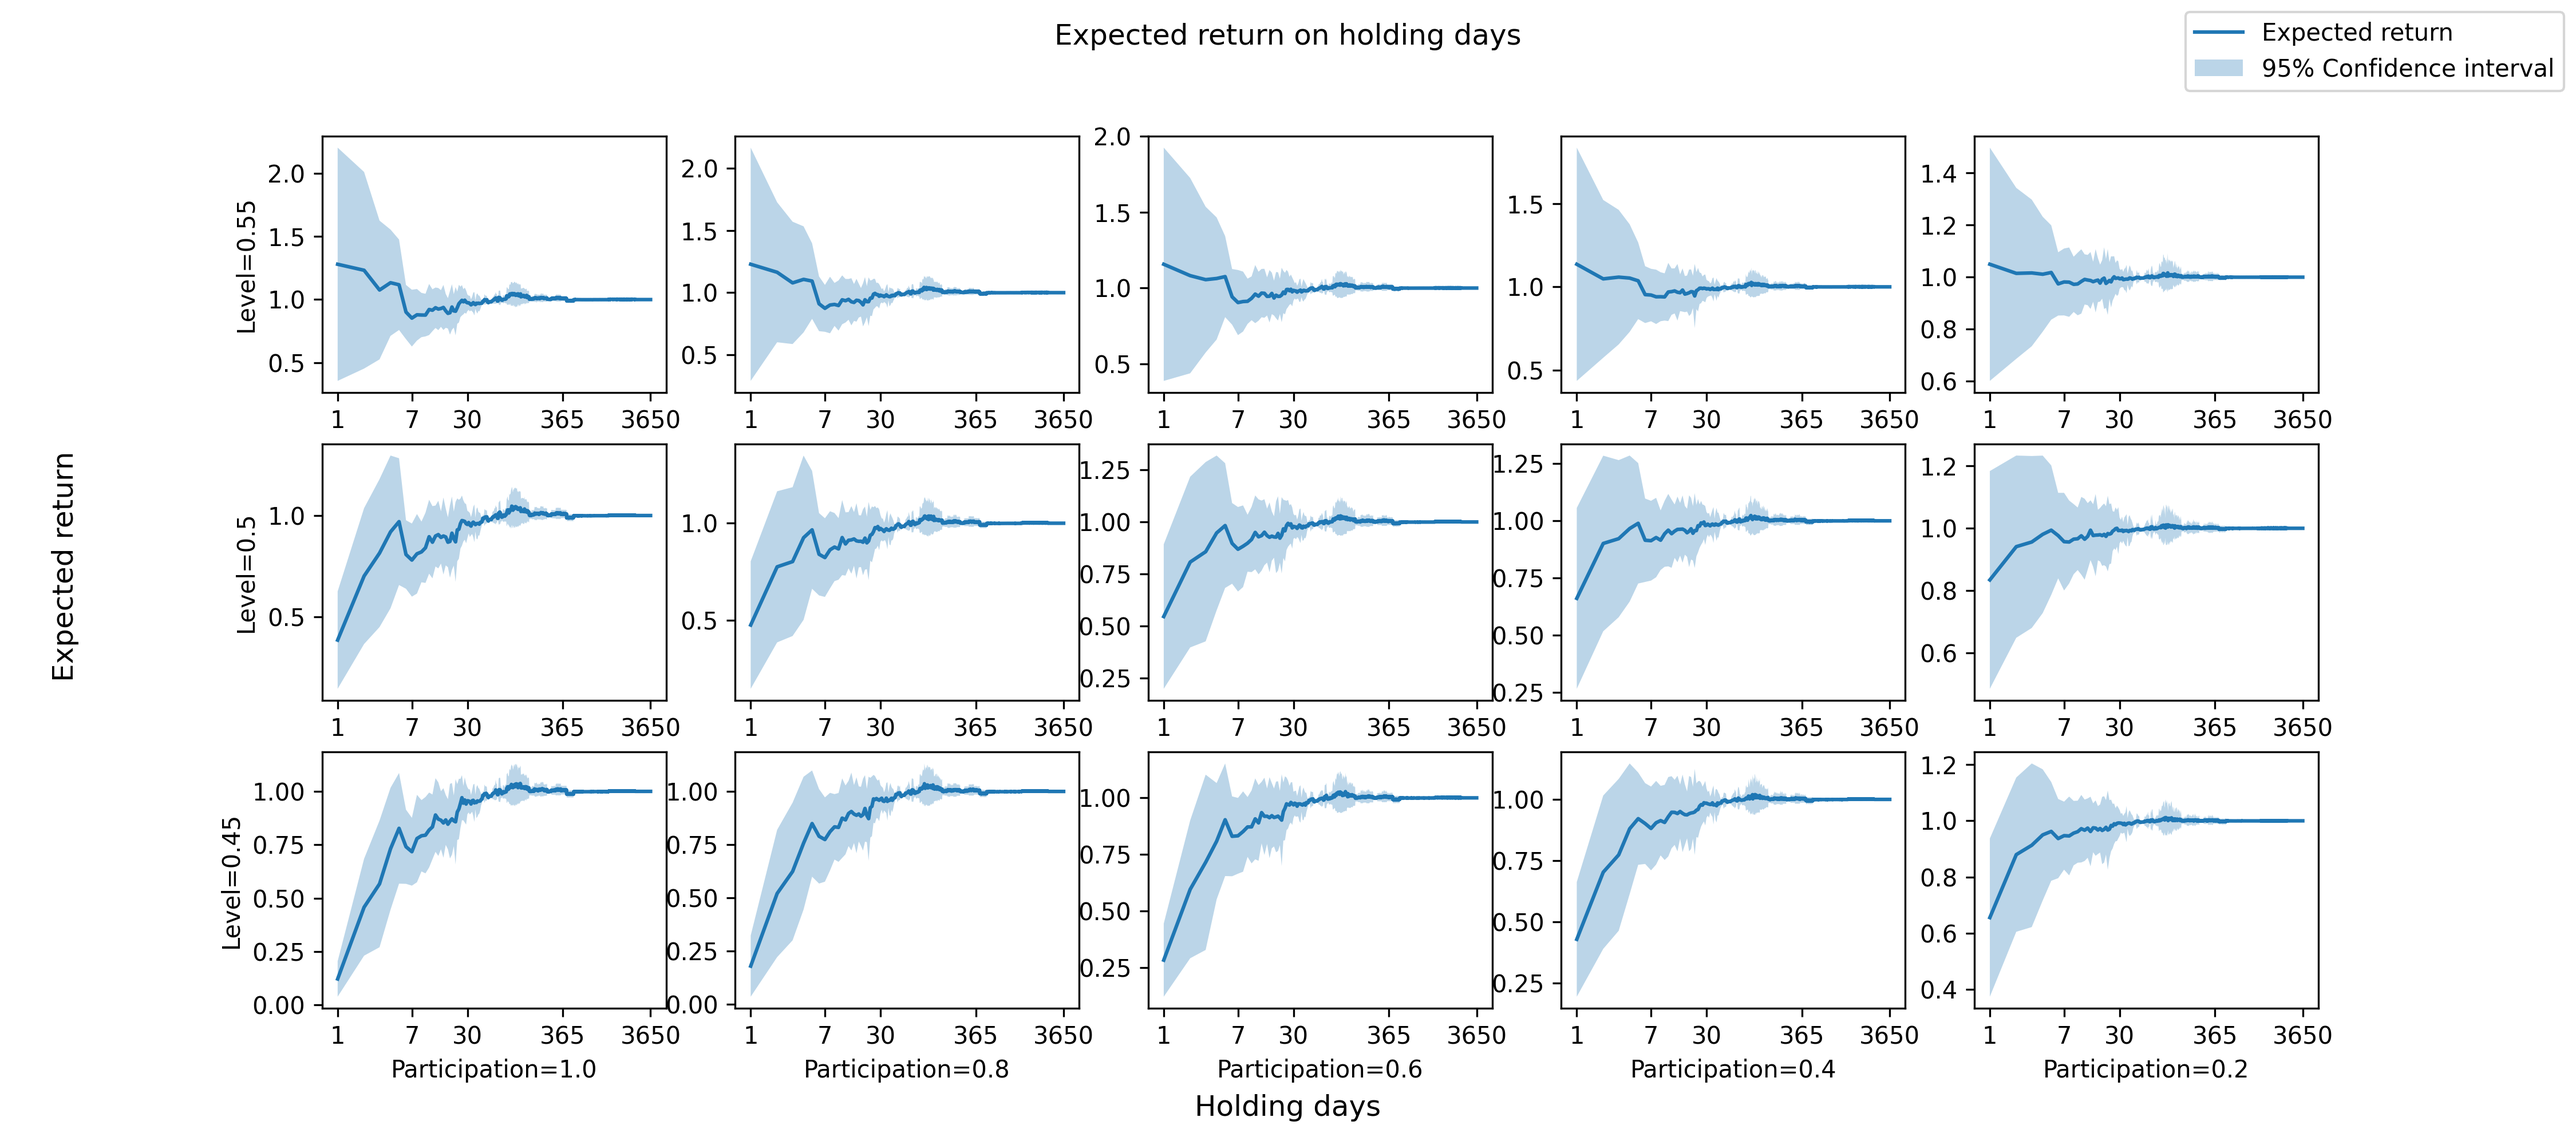
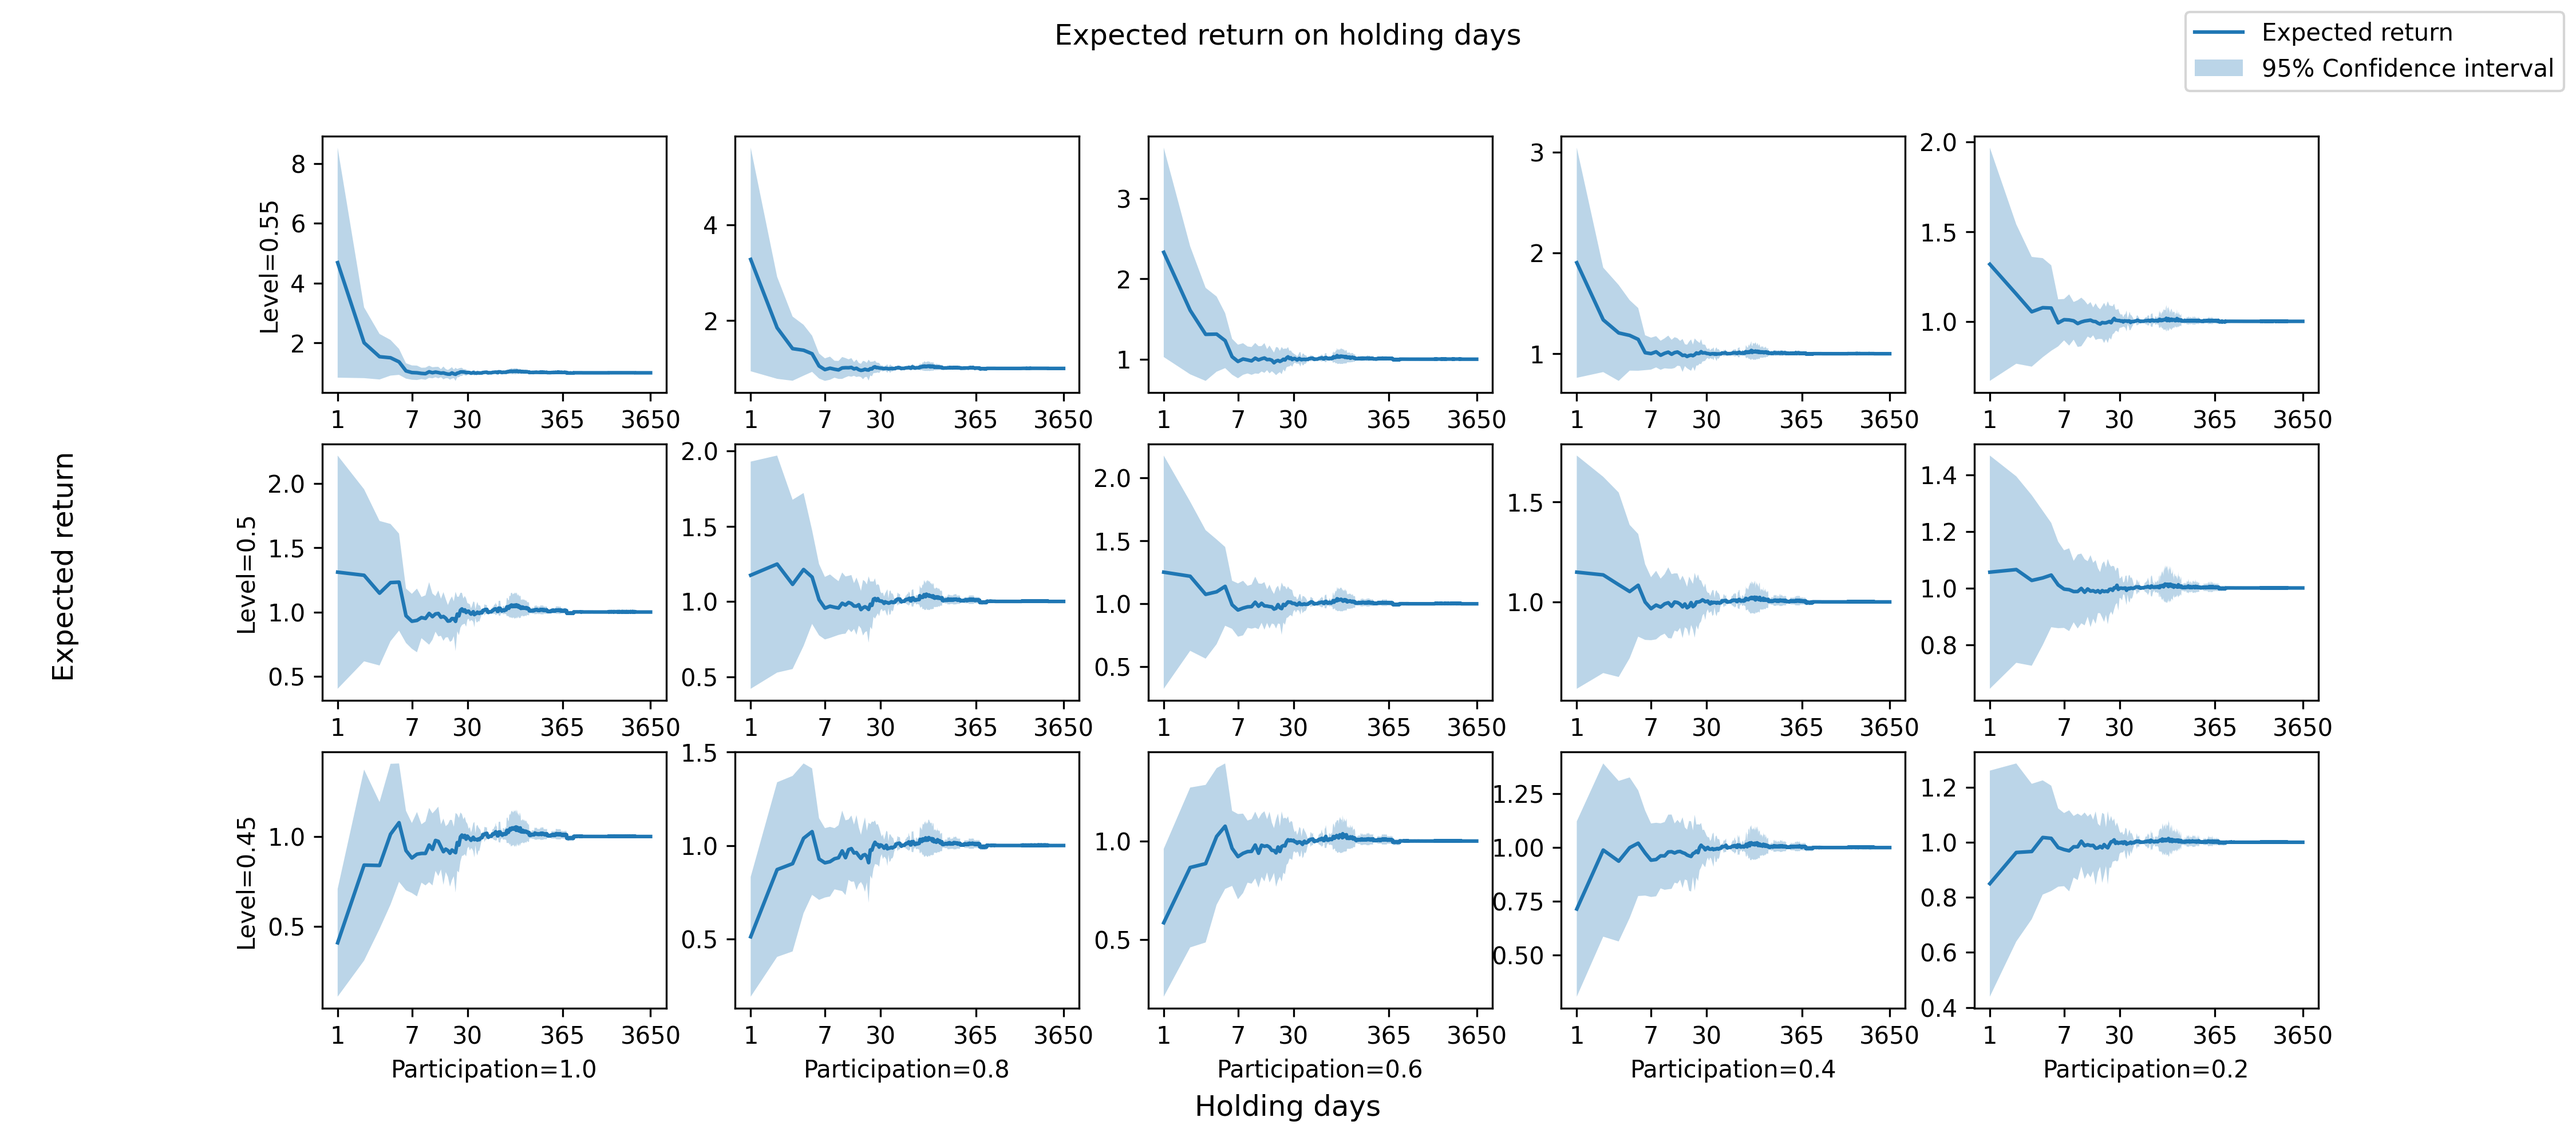
使用FP实现了数据处理的代码，实现了rust读取文件

diff --git a/src/rust/src/data_generator.rs b/src/rust/src/data_generator.rs
@@ -5,46 +5,41 @@ pub struct DataGenerator {
     return_vectors: Vec<Vec<f64>>,
     num_investors: usize,
     trading_cost: f64,
-    pub rng: rand::rngs::ThreadRng,
 }
 
 impl DataGenerator {
-    pub fn from_data(return_vectors: Vec<Vec<f64>>, num_investors: usize, trading_cost: f64) -> Self {
-        Self { return_vectors, num_investors, trading_cost, rng: rand::thread_rng() }
-    }
-    pub fn get_plot_function(&self) -> impl FnMut(f64, i32, f64, bool) -> Vec<(f64, f64)> {
-        // 返回一个函数对象
-        let mut myself: DataGenerator = self.to_owned();
-        move |level: f64, hold: i32, participation: f64, include_individuals: bool| -> Vec<(f64, f64)> {
-            let return_vectors =  if include_individuals {
-                myself.return_vectors.clone()
-            } else {myself.return_vectors.clone()[0..1].to_vec()};
-            let mut result: Vec<(f64, f64)> = vec![(0.0, 0.0); return_vectors.len()];
-            let num_holds = return_vectors[0].len().div_ceil(hold as usize) as usize;
-            let mut adjusted_returns: Vec<Vec<f64>> = vec![vec![0.0; num_holds]; return_vectors.len()];
-                        for (i, vector) in return_vectors.iter().enumerate() {
-                            for j in 0..num_holds {
-                                adjusted_returns[i][j] = (*vector)[j*hold as usize .. vector.len().min((j+1) * hold as usize)].iter().product();
-                            }
-                        }
-            for (j, returns) in adjusted_returns.iter().enumerate() {
-                let mut get_single_return = || {
-                    let mut cumulative_return = 1.0;
-                    for &ret in returns.iter() {
+    pub fn from_data(return_vectors: Vec<Vec<f64>>, num_investors: usize, trading_cost: f64,)
+        -> Self { Self { return_vectors, num_investors, trading_cost, } }
+    pub fn get_plot_function(self) -> impl FnMut(f64, usize, f64, bool) -> Vec<(f64, f64)> {
+        // 返回一个闭包
+        let mut rng = rand::thread_rng();
+        move |level: f64, hold: usize, participation: f64, include_individuals: bool|
+            -> Vec<(f64, f64)> {
+            let return_vectors = if include_individuals {
+                self.return_vectors.clone()
+            } else { self.return_vectors[0..1].to_vec() };
+            let num_holds = return_vectors[0].len().div_ceil(hold);
+            let adjusted_returns: Vec<Vec<f64>> = return_vectors.iter().map(
+                |vector| { (0..num_holds).map(|j| {
+                    (*vector)[j * hold..vector.len().min((j + 1) * hold)].iter().product()
+                }).collect()
+            }).collect();
+            let result = adjusted_returns.iter().map(|returns| {
+                let investors_return: Vec<f64> = (0..self.num_investors).map(|_| {
+                    returns.iter().fold(1.0, |acc, &ret| {
                         let growing = ret > 1.;
-                        let win = myself.rng.gen::<f64>() < level;
-                        let participating = myself.rng.gen::<f64>() < participation;
-                        cumulative_return *= if growing == win && participating {ret * (1. - myself.trading_cost)} else {1.};
-                    }
-                    cumulative_return
-                };
-                let single_returns = (0..myself.num_investors).map(|_| get_single_return()).collect::<Vec<f64>>();
-                let mean_return = single_returns.iter().sum::<f64>() / myself.num_investors as f64;
-                let sd_return = (
-                    single_returns.iter().map(|&x| (x - mean_return).powi(2)).sum::<f64>() / myself.num_investors as f64
-                ).sqrt();
-                result[j] = (mean_return, sd_return);
-            }
+                        let win = rng.gen::<f64>() < level;
+                        let participating = rng.gen::<f64>() < participation;
+                        if growing == win && participating {
+                            acc * ret * (1. - self.trading_cost)
+                        } else { acc } }) }).collect();
+                let mean_return = investors_return.iter()
+                    .sum::<f64>() / self.num_investors as f64;
+                let sd_return = (investors_return.iter()
+                    .map(|&x| (x - mean_return).powi(2))
+                    .sum::<f64>() / self.num_investors as f64).sqrt();
+                (mean_return, sd_return)
+            } ).collect();
             result
         }
     }

diff --git a/src/py/data_generator.py b/src/py/data_generator.py
@@ -1,40 +1,42 @@
+from functools import reduce
 import random
 import math
 import statistics
 
+from numpy import mean
+
 class Data_generator():
     def __init__(self, return_vectors, num_investors=1000, trading_cost=0.001):
-        self.rng = random.Random()
         self.return_vectors = return_vectors
         self.num_investors = num_investors
         self.trading_cost = trading_cost
     def get_plot_function(self):
+        rng = random.Random()
         def plot_function(level=0.5, hold=1, participation=1.0, include_individuals=False
-                          ) -> list[tuple[float, float]]:
+            ) -> list[tuple[float, float]]:
             """
-            函数应该根据return_vectors生成三个平均收益率和方差的双列序列，其中，参数应该包括投资者参数，超参数
-            投资者参数应该包括：投资水平，持有时长，投资参与度
-            超参数应该包括：投资者数量，交易成本
+            函数根据收益向量生成收益率和方差。
+            投资者参数：投资水平，持有时长，投资参与度
+            超参数：投资者数量，交易成本
+            返回值：平均收益率和方差的元组列表
             """
             return_vectors = (self.return_vectors
                               ) if include_individuals else [self.return_vectors[0]]
-            result = [(0.0, 0.0)] * len(return_vectors)
             num_holds = -(-len(return_vectors[0]) // hold)
             adjusted_returns = [[math.prod(vector[j * hold: min((j + 1) * hold, num_holds)])
                 for j in range(num_holds)]
-                for (i, vector) in enumerate(return_vectors)]
-            for returns in adjusted_returns:
-                def get_single_return() -> float:
-                    treasure = 1
-                    for i, return_rate in enumerate(returns):
-                        growing = return_rate > 1
-                        win = self.rng.random() < level
-                        participating = self.rng.random() < participation
-                        treasure *= (return_rate * (1 - self.trading_cost)
-                                     ) if growing == win and participating else 1
+                for vector in return_vectors]
+            def get_result(returns):
+                def get_investor_return(treasure, ret) -> float:
+                    growing = ret > 1
+                    win = rng.random() < level
+                    participating = rng.random() < participation
+                    if growing == win and participating:
+                        return treasure * (ret * (1 - self.trading_cost))
                     return treasure
-                single_returns: list[float] = [get_single_return()
-                                               for _ in range(self.num_investors)]
-                result[j] = (statistics.mean(single_returns), statistics.stdev(single_returns))
-            return result
+                investors_return: list[float] = [reduce(get_investor_return, returns, 1.) for _ in range(self.num_investors)]
+                mean = statistics.mean(investors_return)
+                sd = statistics.stdev(investors_return)
+                return mean, sd
+            return list(map(get_result, adjusted_returns))
         return plot_function

diff --git a/src/rust/src/main.rs b/src/rust/src/main.rs
@@ -7,12 +7,17 @@ use data_generator::DataGenerator;
 use plotter::Plotter;
 
 fn main() {
-    // 主函数写主要逻辑
     // 读取数据
-    let paths: Vec<String> = vec!["./data/data_index.csv".to_string(), "./data/data_maotai.csv".to_string(), "./data/data_mengjie.csv".to_string()];
-    let return_vectors = DataReader::from_paths(paths.clone()).get_return_vectors();
+    let paths: Vec<String> = vec![
+        "../../data/data_index.csv".to_string(),
+        "../../data/data_maotai.csv".to_string(),
+        "../../data/data_mengjie.csv".to_string(),
+        ];
+    let returns = DataReader::from_paths(paths.clone()).get_return_vectors();
     // 生成数据
-    let plot_function = DataGenerator::from_data(return_vectors.clone(), 1000, 0.001).get_plot_function();
+    let plot_function = DataGenerator::from_data(
+        returns.clone(), 1000, 0.001
+    ).get_plot_function();
     // 画图
     Plotter::from_plot_function(plot_function).plot();
 }

diff --git a/src/rust/src/data_reader.rs b/src/rust/src/data_reader.rs
@@ -1,3 +1,4 @@
+use std::{fs::File, io::{BufRead, BufReader}};
 pub struct DataReader {
     paths: Vec<String>
 }
@@ -5,6 +6,20 @@ pub struct DataReader {
 impl DataReader {
     pub fn from_paths(paths: Vec<String>) -> Self { Self { paths } }
     pub fn get_return_vectors(&self) -> Vec<Vec<f64>> {
-        vec![vec![1.; 365]; self.paths.len()]
+        let mut vectors: Vec<Vec<f64>> = Vec::new();
+        for path in &self.paths {
+            let mut vector: Vec<f64> = Vec::new();
+            let file = File::open(path).unwrap();
+            let buf_reader = BufReader::new(file);
+            for line in buf_reader.lines() {
+            if let Ok(line) = line {
+                let item = line.split(",").collect::<Vec<&str>>()[2];
+                if let Ok(item) = item.parse::<f64>() {
+                    vector.push(item);
+                }
+            }}
+            vectors.push(vector);
+        }
+        vectors
     }
 }

diff --git a/src/rust/src/plotter.rs b/src/rust/src/plotter.rs
@@ -1,12 +1,12 @@
 #[derive(Clone)]
-pub struct Plotter<T: FnMut(f64, i32, f64, bool) -> Vec<(f64, f64)>> {
+pub struct Plotter<T: FnMut(f64, usize, f64, bool) -> Vec<(f64, f64)>> {
     pub plot_function: T,
 }
 
-impl<T: FnMut(f64, i32, f64, bool) -> Vec<(f64, f64)>> Plotter<T> {
+impl<T: FnMut(f64, usize, f64, bool) -> Vec<(f64, f64)>> Plotter<T> {
     pub fn from_plot_function(plot_function: T) -> Self { Self { plot_function } }
     pub fn plot(&mut self) {
-        let holds = (1..=8).collect::<Vec<i32>>();
+        let holds = (1..=8).collect::<Vec<usize>>();
         let mut mean = vec![0.0; holds.len()];
         let mut sd = vec![0.0; holds.len()];
         for (i, &hold) in holds.iter().enumerate() {

diff --git a/src/py/main.py b/src/py/main.py
@@ -8,7 +8,7 @@ if __name__ == "__main__":
     data_reader = Data_reader(paths)
     return_vectors = data_reader.get_return_vectors()
     # Generate data
-    data_generator = Data_generator(return_vectors, num_investors=100, trading_cost=0.001)
+    data_generator = Data_generator(return_vectors, num_investors=100, trading_cost=0.00)
     plot_function = data_generator.get_plot_function()
     # Plot
     plotter = Plotter(plot_function, save_path="./plots/py")
